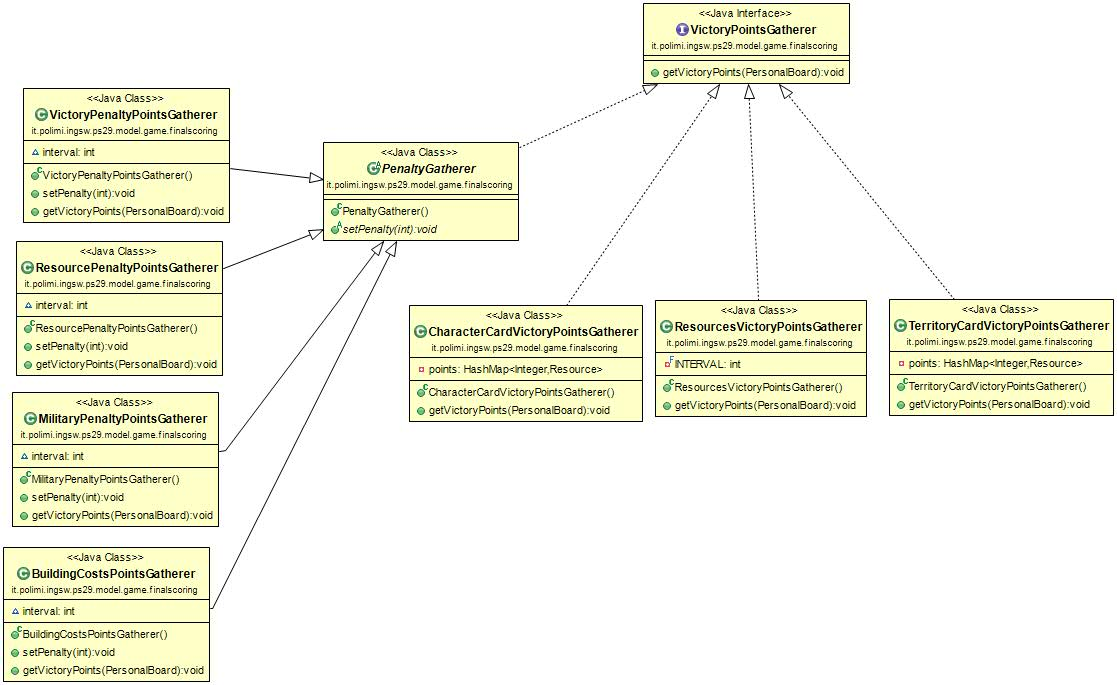
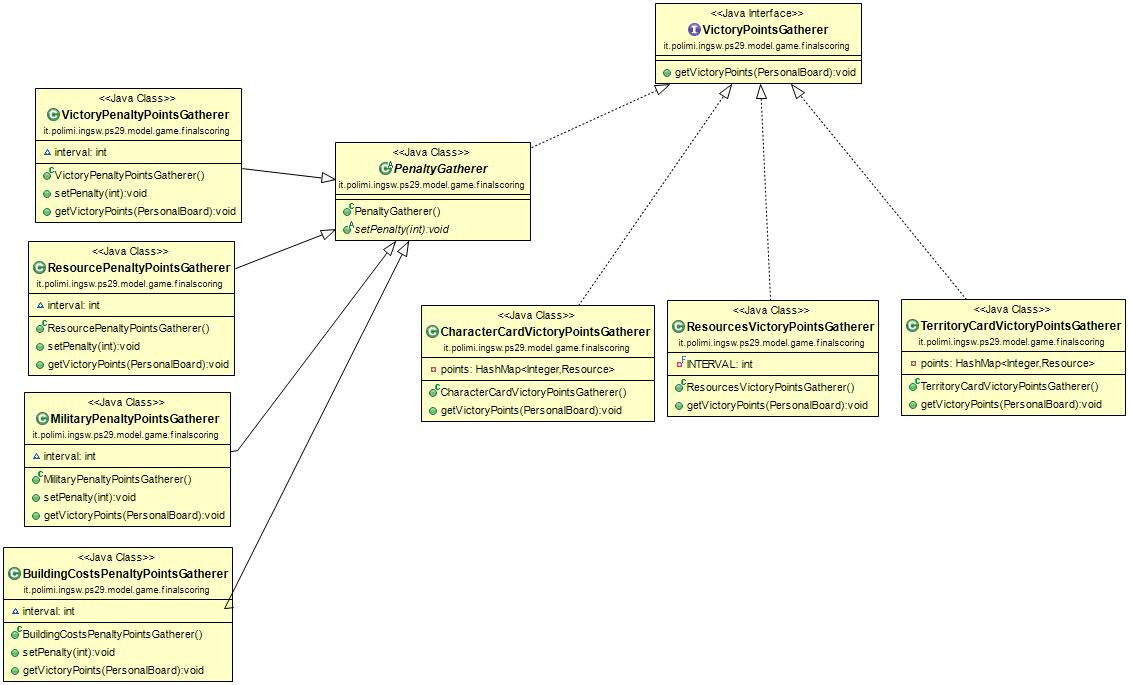
fix

diff --git a/src/main/java/it/polimi/ingsw/ps29/model/game/Player.java b/src/main/java/it/polimi/ingsw/ps29/model/game/Player.java
@@ -12,7 +12,7 @@ import it.polimi.ingsw.ps29.model.game.familymember.FakeFamilyMember;
 import it.polimi.ingsw.ps29.model.game.familymember.FakeFamilyMemberInterface;
 import it.polimi.ingsw.ps29.model.game.familymember.FamilyMember;
 import it.polimi.ingsw.ps29.model.game.familymember.FamilyMemberInterface;
-import it.polimi.ingsw.ps29.model.game.finalscoring.BuildingCostsPointsGatherer;
+import it.polimi.ingsw.ps29.model.game.finalscoring.BuildingCostsPenaltyPointsGatherer;
 import it.polimi.ingsw.ps29.model.game.finalscoring.CharacterCardVictoryPointsGatherer;
 import it.polimi.ingsw.ps29.model.game.finalscoring.MilitaryPenaltyPointsGatherer;
 import it.polimi.ingsw.ps29.model.game.finalscoring.PenaltyGatherer;
@@ -81,7 +81,7 @@ public class Player {
 	    finalPenalties = new HashMap<String, VictoryPointsGatherer>(); 
 	    finalPenalties.put("military", new MilitaryPenaltyPointsGatherer()); 
 	    finalPenalties.put("resourcepenalty", new ResourcePenaltyPointsGatherer()); 
-	    finalPenalties.put("cost", new BuildingCostsPointsGatherer()); 
+	    finalPenalties.put("cost", new BuildingCostsPenaltyPointsGatherer()); 
 	    finalPenalties.put("victory", new VictoryPenaltyPointsGatherer());
 	    
 	    

diff --git a/src/main/java/it/polimi/ingsw/ps29/model/game/finalscoring/BuildingCostsPenaltyPointsGatherer.java b/src/main/java/it/polimi/ingsw/ps29/model/game/finalscoring/BuildingCostsPenaltyPointsGatherer.java
@@ -6,7 +6,7 @@ import it.polimi.ingsw.ps29.model.cards.Card;
 import it.polimi.ingsw.ps29.model.game.PersonalBoard;
 import it.polimi.ingsw.ps29.model.game.resources.Resource;
 
-public class BuildingCostsPointsGatherer extends PenaltyGatherer{
+public class BuildingCostsPenaltyPointsGatherer extends PenaltyGatherer{
 
 	int interval = 1;
 	

diff --git a/src/main/java/it/polimi/ingsw/ps29/model/cards/effects/FixFamilyMemberPowerByColor.java b/src/main/java/it/polimi/ingsw/ps29/model/cards/effects/FixFamilyMemberPowerByColor.java
@@ -6,7 +6,7 @@ import it.polimi.ingsw.ps29.model.game.DiceColor;
 import it.polimi.ingsw.ps29.model.game.Player;
 
 /**
- * LEADER: Set all familiars' power to 5 or a customizable value.
+ * LEADER: Set all familiars' power to 5 or to a customizable value.
  * @author Giovanni Mele
  *
  */

diff --git a/src/main/java/it/polimi/ingsw/ps29/model/game/finalscoring/VictoryPointsGatherer.java b/src/main/java/it/polimi/ingsw/ps29/model/game/finalscoring/VictoryPointsGatherer.java
@@ -2,6 +2,12 @@ package it.polimi.ingsw.ps29.model.game.finalscoring;
 
 import it.polimi.ingsw.ps29.model.game.PersonalBoard;
 
+/**
+ * 
+ * @author Giovanni Mele
+ *
+ */
+
 public interface VictoryPointsGatherer {
 	
 	public void getVictoryPoints(PersonalBoard board);
